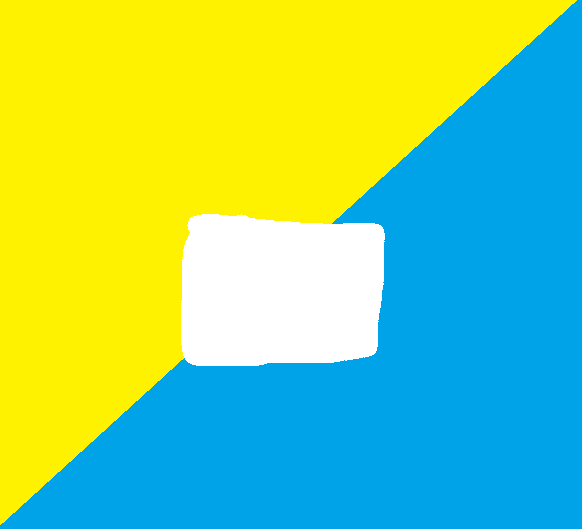
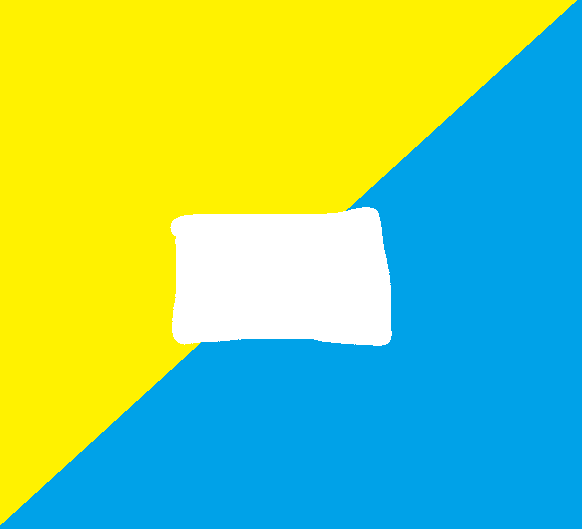
correction

Changed region(s): [[0.2784, 0.3932, 0.6804, 0.6957], [0.4021, 0.3932, 0.6495, 0.4234], [0.6495, 0.4234, 0.6804, 0.4537]]

diff --git a/detectercontours.py b/detectercontours.py
@@ -90,42 +90,61 @@ while np.any(mask_target == 1) and iteration < max_iter:
             if np.count_nonzero(valid) == 0:
                 continue
 
-            # s'assurer que les deux patchs ont la même taille
+           # s'assurer que les deux patchs ont la même taille
             th, tw = target_patch.shape[:2]
             sh, sw = source_patch.shape[:2]
             hh = min(th, sh)
             ww = min(tw, sw)
-            target_patch = target_patch[:hh, :ww]
-            source_patch = source_patch[:hh, :ww]
-            valid = valid[:hh, :ww]
 
-            diff = (target_patch.astype(np.float32) - source_patch.astype(np.float32)) ** 2
-            valid3 = np.repeat(valid[:, :, None], 3, axis=2)
-            ssd = np.sum(diff[valid3]) / np.count_nonzero(valid)
+            # faire des copies locales SANS modifier target_patch original
+            t_patch_c = target_patch[:hh, :ww].astype(np.float32)
+            s_patch_c = source_patch[:hh, :ww].astype(np.float32)
+            valid_c = valid[:hh, :ww]
+
+            if np.count_nonzero(valid_c) == 0:
+                continue
+
+            diff = (t_patch_c - s_patch_c) ** 2
+            valid3 = np.repeat(valid_c[:, :, None], 3, axis=2)
+            ssd = np.sum(diff[valid3]) / np.count_nonzero(valid_c)
+
             if ssd < min_ssd:
                 min_ssd = ssd
                 best_qx, best_qy = qx, qy
 
     print(f"par ({best_qx},{best_qy}), SSD={min_ssd:.2f}")
 
-    #  Copier les pixels manquants 
+        # --- Copier les pixels manquants ---
     sx0, sx1 = best_qx - patch_radius, best_qx + patch_radius + 1
     sy0, sy1 = best_qy - patch_radius, best_qy + patch_radius + 1
+
+    # Ajuster les bornes si on est proche des bords
+    sx0 = max(0, sx0)
+    sy0 = max(0, sy0)
+    sx1 = min(w, sx1)
+    sy1 = min(h, sy1)
+
     source_patch = image_bgr[sy0:sy1, sx0:sx1]
 
+    # --- Adapter les tailles entre patchs source et cible ---
+    patch_h = y1 - y0
+    patch_w = x1 - x0
+    source_patch = source_patch[:patch_h, :patch_w]
+    target_mask_cropped = mask_target[y0:y1, x0:x1][:patch_h, :patch_w]
+
+    # --- Copie sécurisée des pixels ---
     filled_image = image_bgr.copy()
-    #filled_image[y0:y1, x0:x1][target_mask == 1] = [0, 0, 255]  # Debug rouge
-    filled_image[y0:y1, x0:x1][target_mask == 1] = source_patch[target_mask == 1]
+    filled_image[y0:y1, x0:x1][target_mask_cropped == 1] = source_patch[target_mask_cropped == 1]
 
-
-    # Mettre à jour image + masque + confiance
-    image_bgr = filled_image.copy()
-    mask_target[y0:y1, x0:x1][target_mask == 1] = 0
-    C[y0:y1, x0:x1][target_mask == 1] = C_values[best_idx]
+    # --- Mettre à jour l’image, le masque et la confiance ---
+    image_bgr = filled_image
+    mask_target[y0:y1, x0:x1][target_mask_cropped == 1] = 0
+    C[y0:y1, x0:x1][target_mask_cropped == 1] = C_values[best_idx]
 
     print("Zone restante à remplir :", np.count_nonzero(mask_target))
 
-    if iteration % 25 == 0 or np.all(mask_target == 0):
+    # --- Visualisation toutes les 3 itérations ---
+    if iteration % 3 == 0 or np.all(mask_target == 0):
         plt.imshow(cv2.cvtColor(image_bgr, cv2.COLOR_BGR2RGB))
         plt.title(f"Résultat après {iteration} itérations")
         plt.axis("off")
